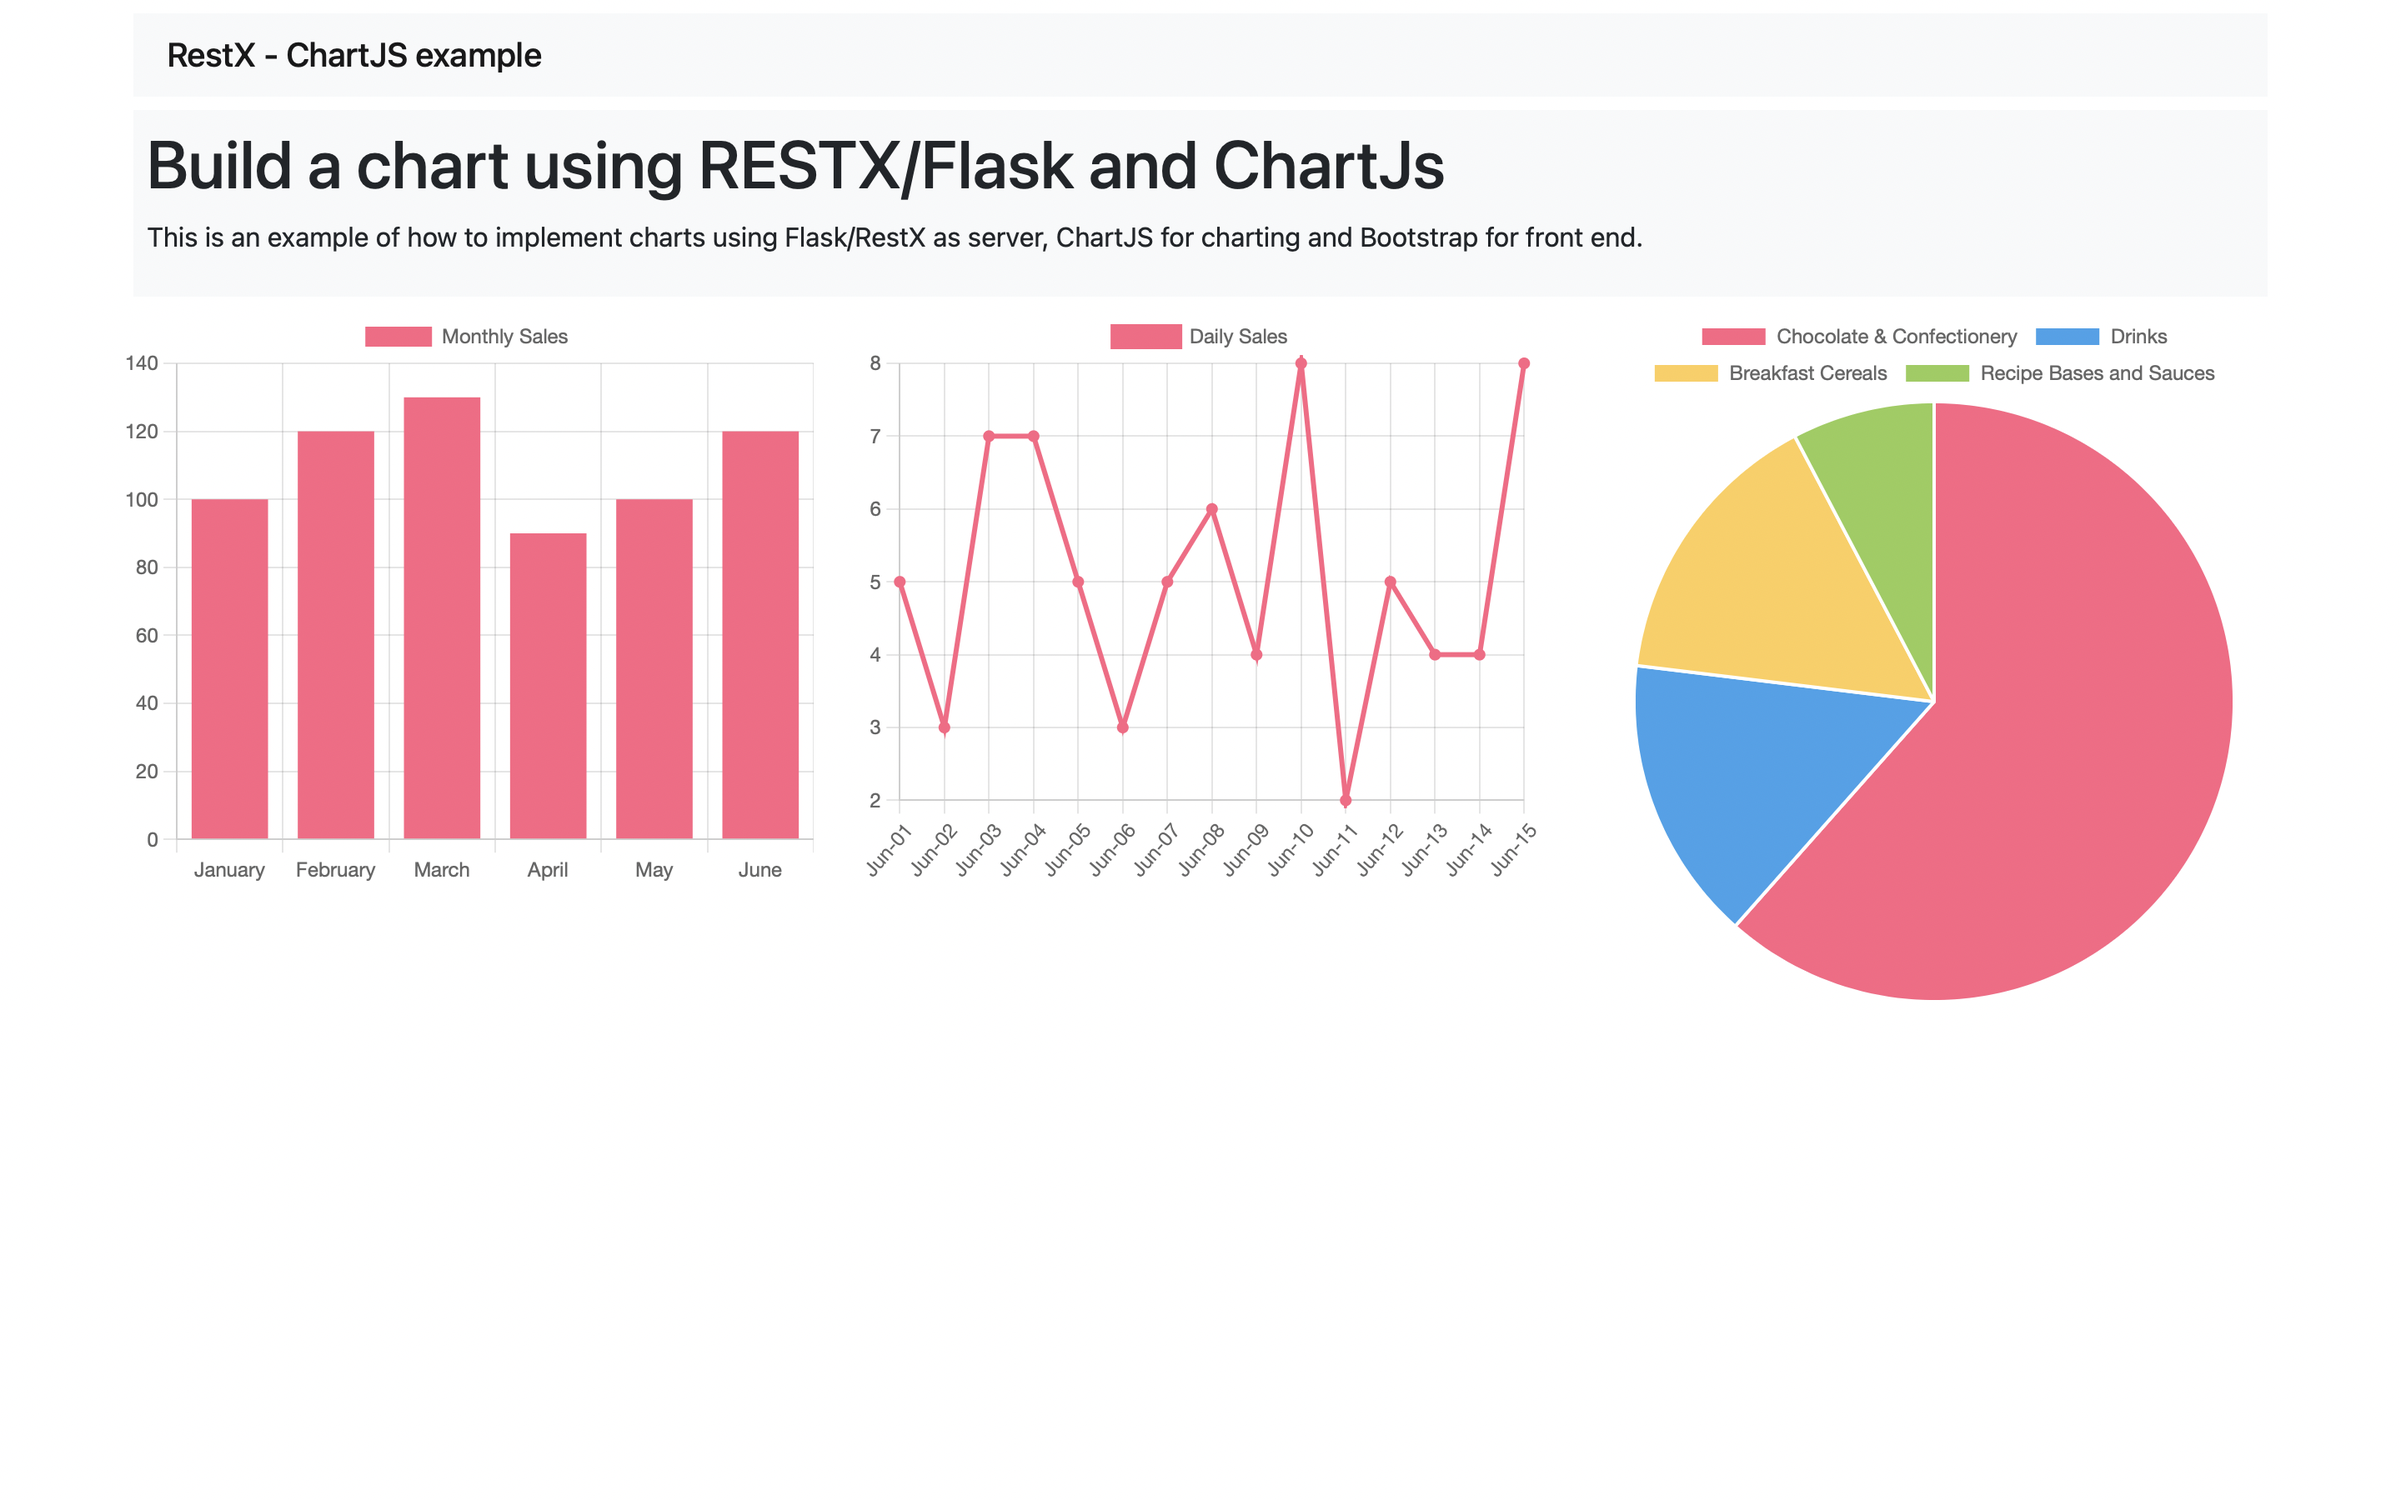
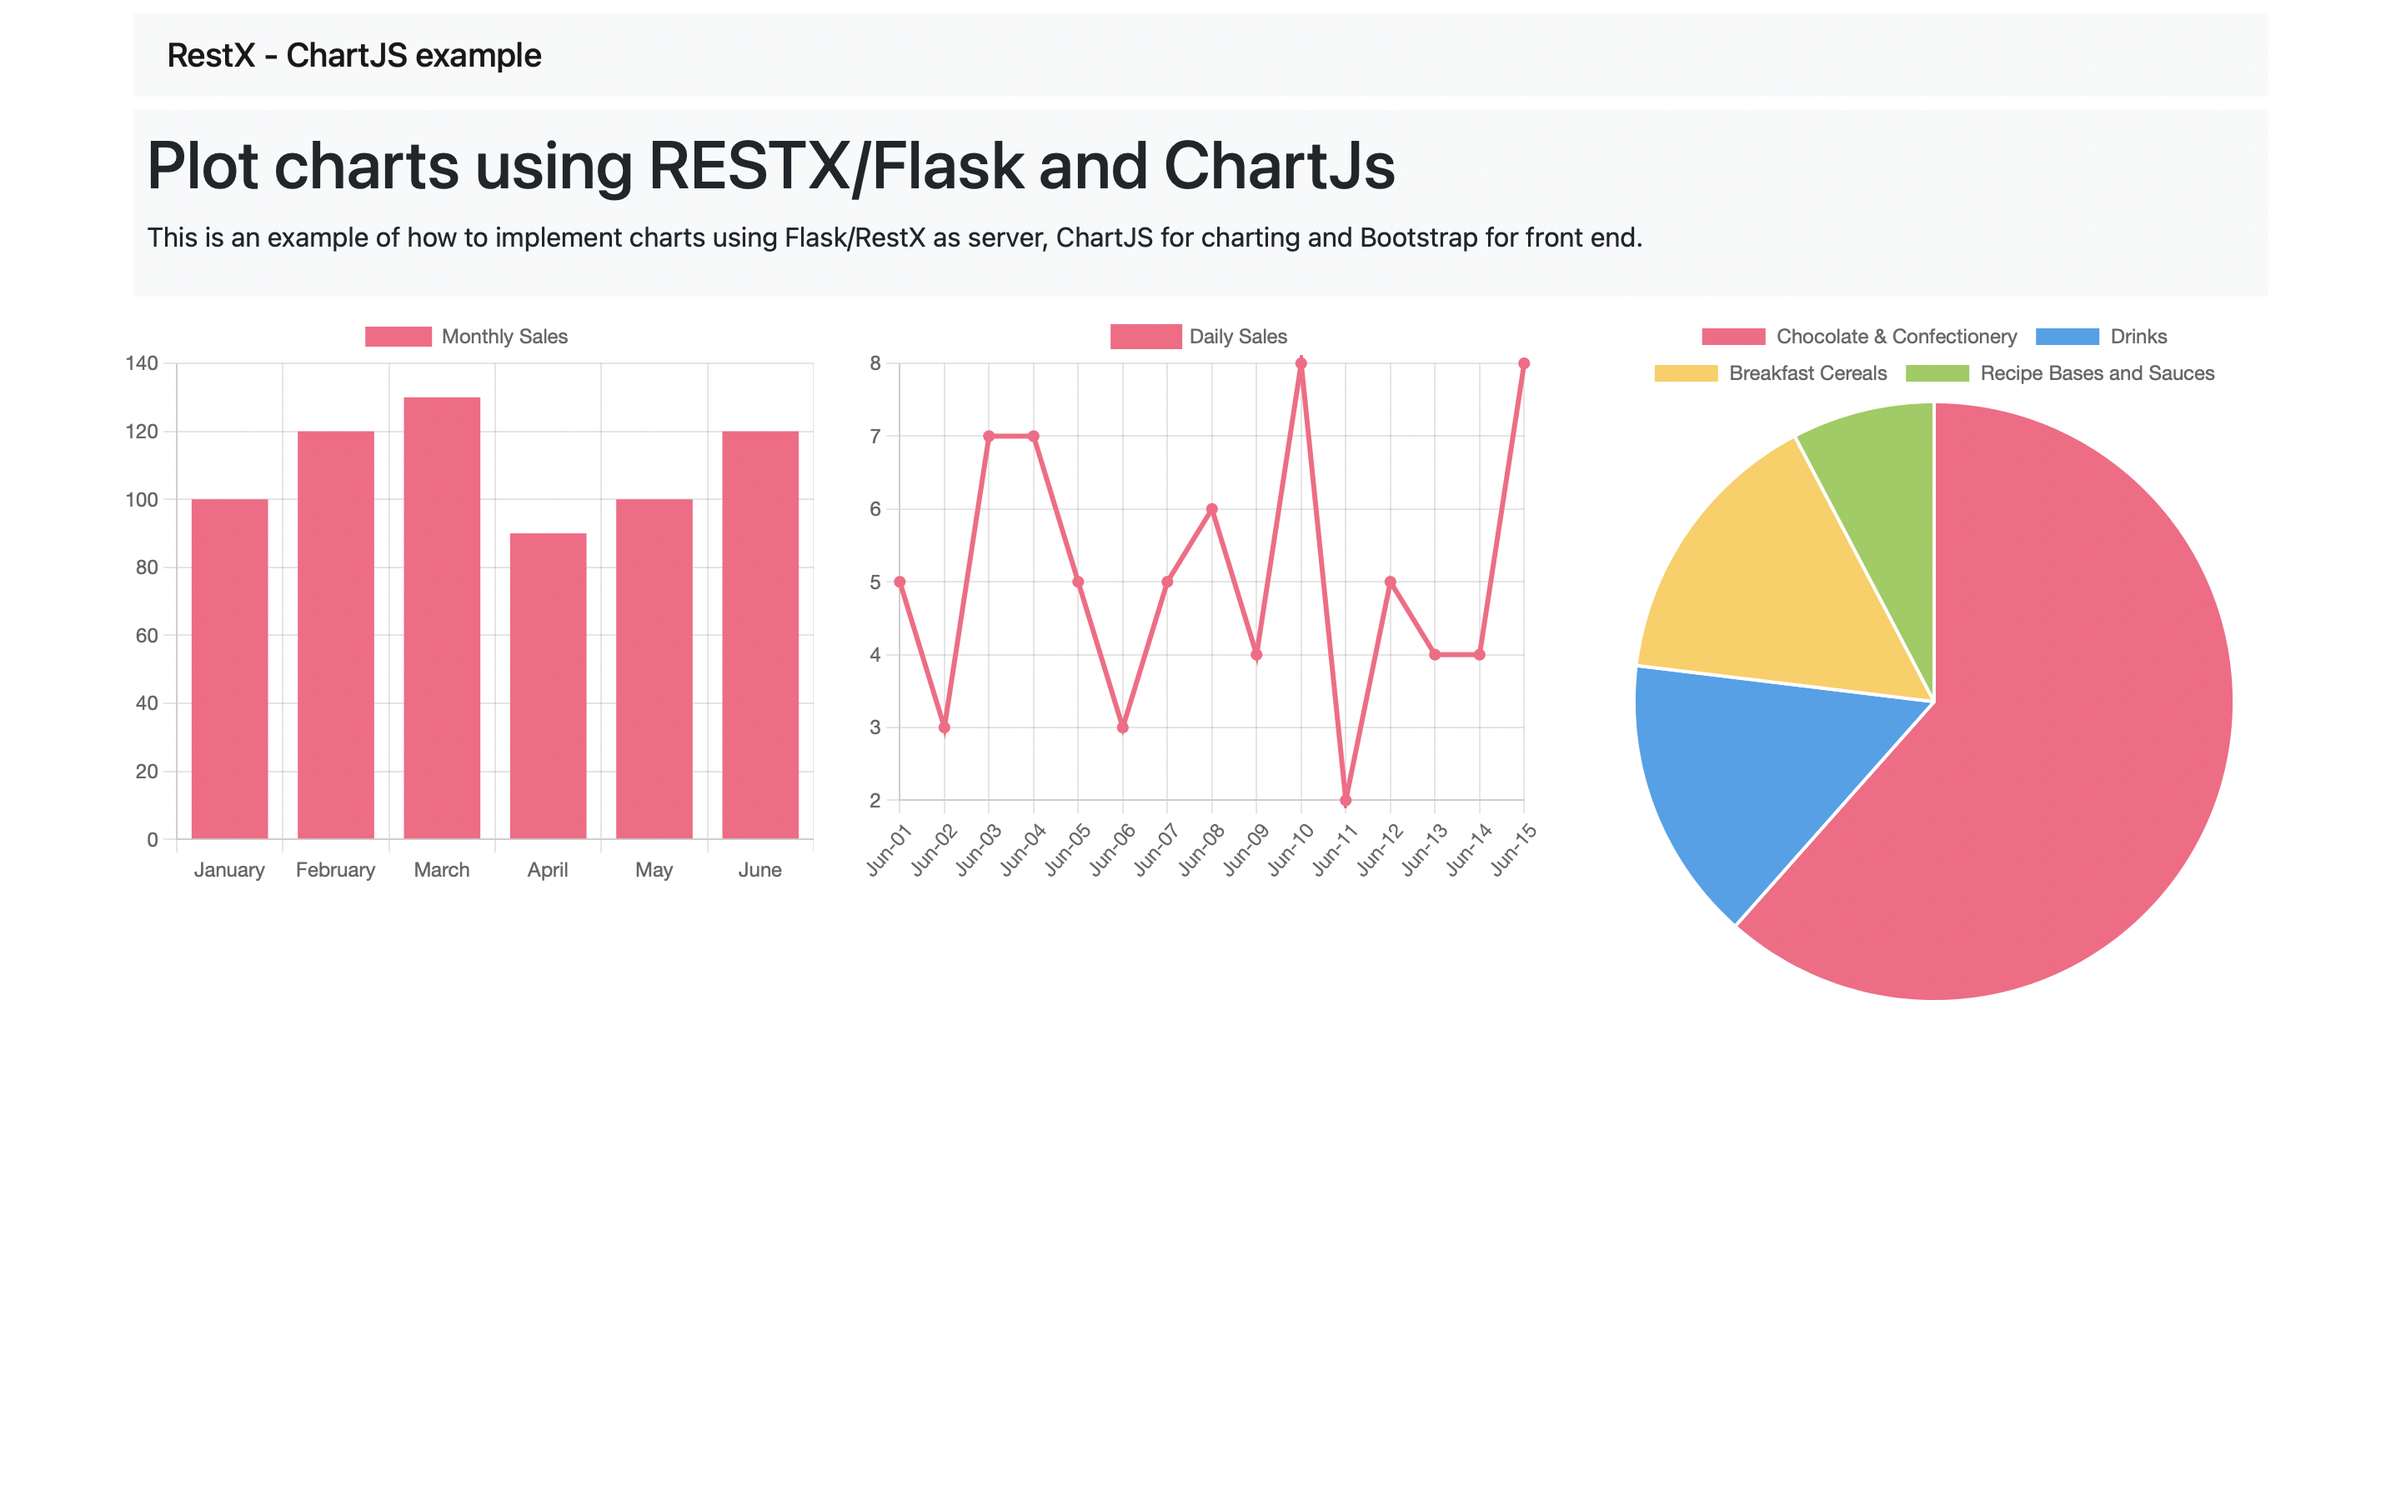
Minor change

Changed region(s): [[0.0625, 0.0933, 0.625, 0.1556]]

diff --git a/templates/index.html b/templates/index.html
@@ -23,7 +23,7 @@
 
         <div class="m-2 p-2 bg-light">
 
-            <h1>Build a chart using RESTX/Flask and ChartJs</h1>
+            <h1>Plot charts using RESTX/Flask and ChartJs</h1>
             <p>This is an example of how to implement charts using Flask/RestX as server, ChartJS for charting and Bootstrap for front end.</p>
 
         </div>
